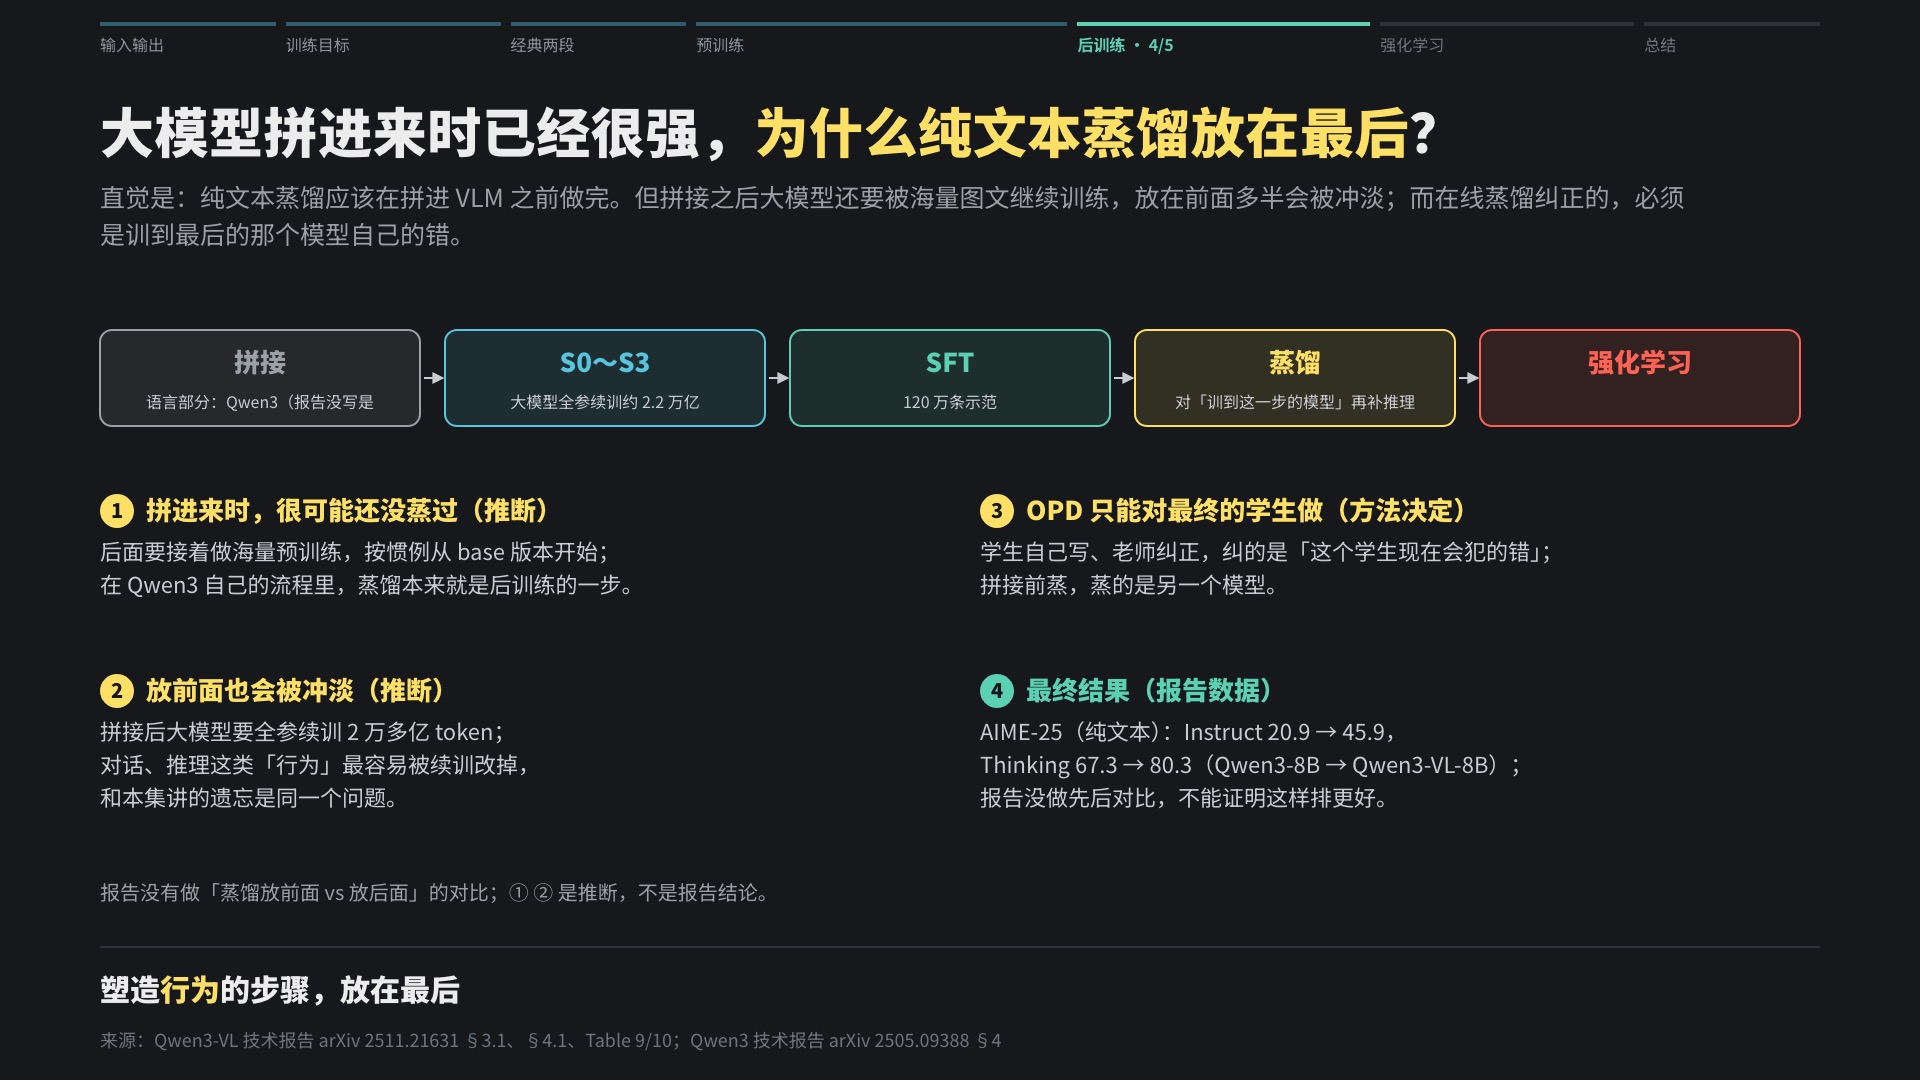
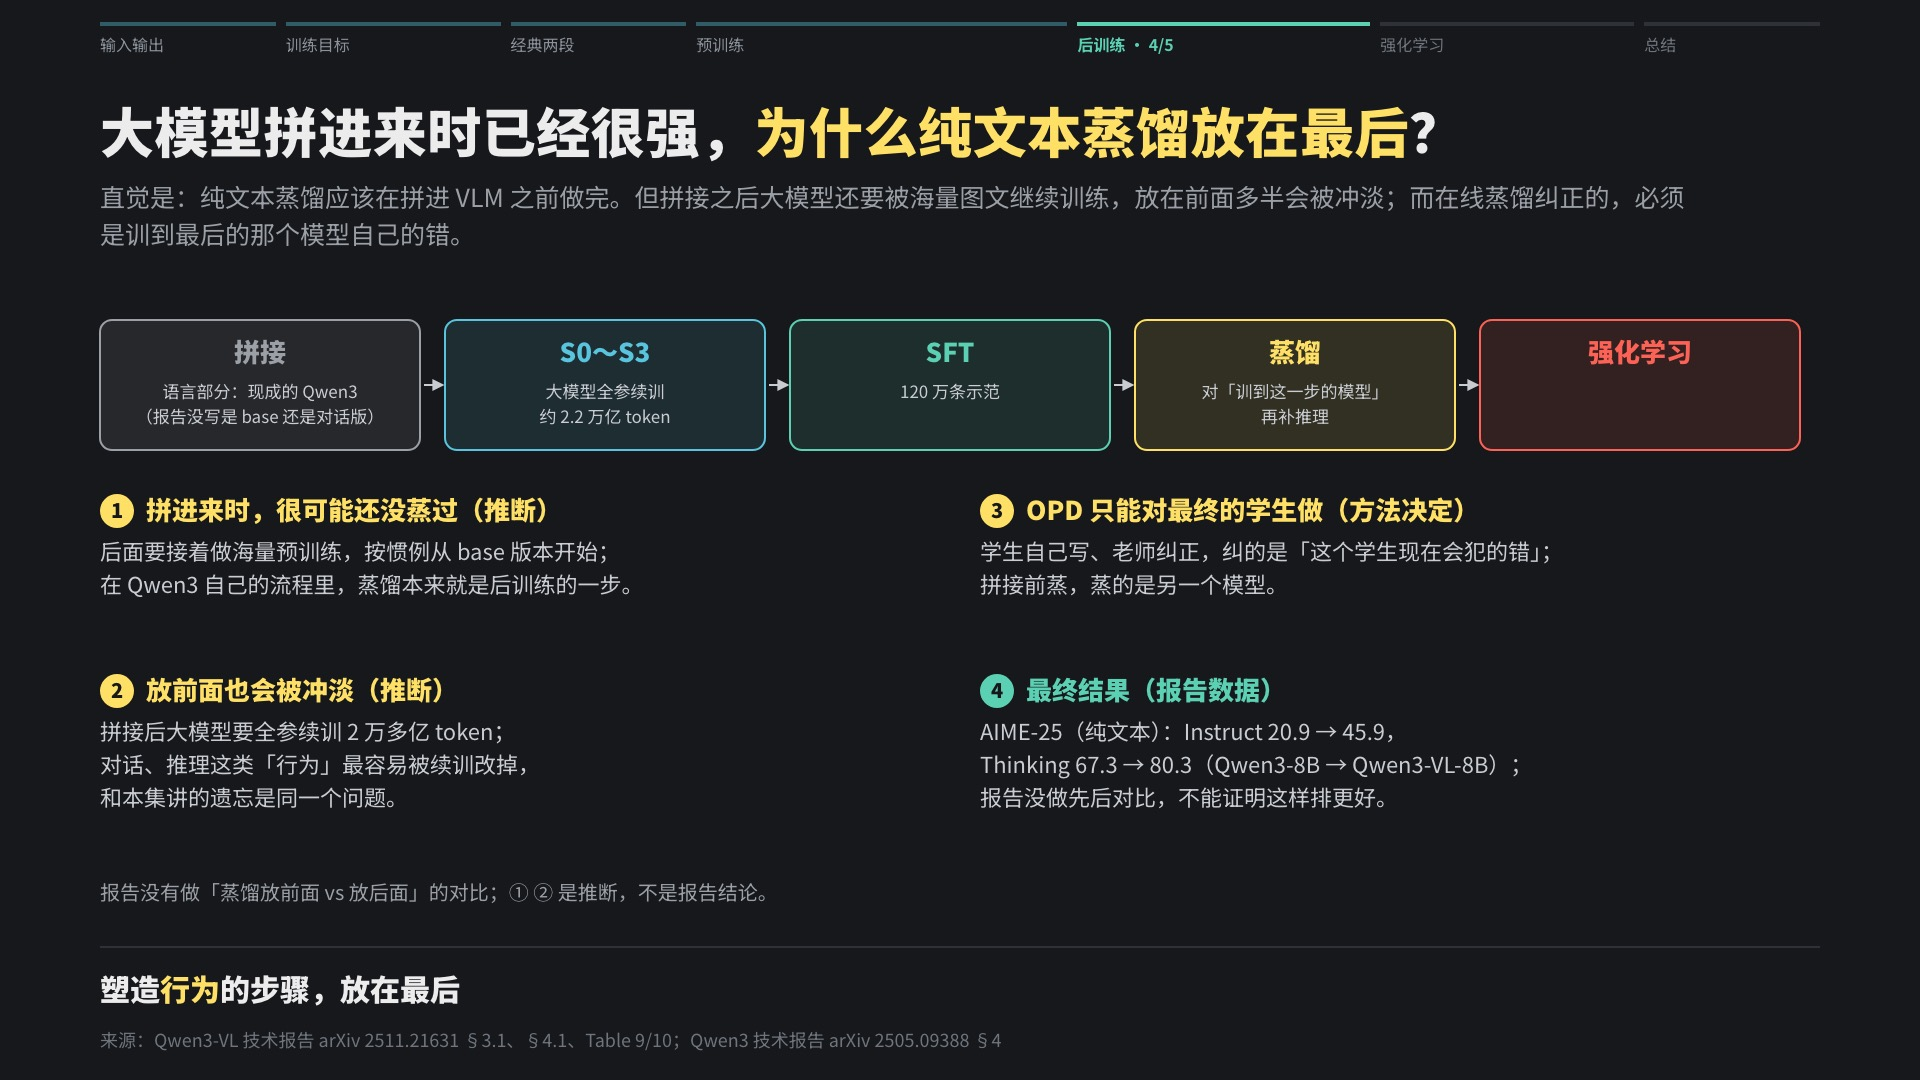
Fix truncated labels on EP04 slide f3b-last

Changed region(s): [[0.2188, 0.275, 0.9375, 0.4278], [0.0625, 0.3056, 0.2188, 0.3972]]

diff --git a/lecture/ep04/slides/f3b-last.html b/lecture/ep04/slides/f3b-last.html
@@ -22,4 +22,4 @@ body{padding-top:96px}.nav{position:absolute;left:100px;right:100px;top:22px;dis
 .nl{font-size:16px;color:#6E757C;white-space:nowrap}.nv.past .nl{color:#8A9199}.nv.cur .nl{color:var(--c);font-weight:700}
 .take{position:absolute;left:100px;right:100px;bottom:70px;font:900 30px "Noto Sans SC";border-top:2px solid #2E3238;padding-top:18px}.take i{font-style:normal;color:var(--yl)}
 .foot{bottom:28px}.n{font-size:22px;line-height:1.7}.n b{display:block;font-size:26px;margin-bottom:8px}
-.stp{font:700 22px "Noto Sans SC";color:var(--mu);margin-bottom:10px}.stp b{display:inline-flex;width:34px;height:34px;border-radius:50%;background:var(--card2);color:var(--fg);align-items:center;justify-content:center;margin-right:8px;font-size:20px}.fig{position:absolute;left:0;top:0;font-family:"Noto Sans SC",sans-serif}.fig .m{font-family:"JetBrains Mono",monospace;font-variant-ligatures:none}</style></head><body><div class="nav"><div class="nv past" style="flex:4.5;--c:var(--fg)"><div class="nl">输入输出</div></div><div class="nv past" style="flex:5.5;--c:var(--yl)"><div class="nl">训练目标</div></div><div class="nv past" style="flex:4.5;--c:var(--pu)"><div class="nl">经典两段</div></div><div class="nv past" style="flex:9.5;--c:var(--bl)"><div class="nl">预训练</div></div><div class="nv cur" style="flex:7.5;--c:var(--gr)"><div class="nl">后训练 · 4/5</div></div><div class="nv" style="flex:6.5;--c:var(--rd)"><div class="nl">强化学习</div></div><div class="nv" style="flex:4.5;--c:var(--fg)"><div class="nl">总结</div></div></div><h1>大模型拼进来时已经很强，<span class="yl">为什么纯文本蒸馏放在最后</span>？</h1><div class="sub">直觉是：纯文本蒸馏应该在拼进 VLM 之前做完。但拼接之后大模型还要被海量图文继续训练，放在前面多半会被冲淡；而在线蒸馏纠正的，必须是训到最后的那个模型自己的错。</div><svg class="fig" width="1920" height="1080" viewBox="0 0 1920 1080"><defs><marker id="abl" viewBox="0 0 10 10" refX="8" refY="5" markerWidth="6" markerHeight="6" orient="auto-start-reverse"><path d="M0,0L10,5L0,10z" fill="#58C4DD"/></marker><marker id="ayl" viewBox="0 0 10 10" refX="8" refY="5" markerWidth="6" markerHeight="6" orient="auto-start-reverse"><path d="M0,0L10,5L0,10z" fill="#FFE066"/></marker><marker id="agr" viewBox="0 0 10 10" refX="8" refY="5" markerWidth="6" markerHeight="6" orient="auto-start-reverse"><path d="M0,0L10,5L0,10z" fill="#5CD0B3"/></marker><marker id="ard" viewBox="0 0 10 10" refX="8" refY="5" markerWidth="6" markerHeight="6" orient="auto-start-reverse"><path d="M0,0L10,5L0,10z" fill="#FC6255"/></marker><marker id="apu" viewBox="0 0 10 10" refX="8" refY="5" markerWidth="6" markerHeight="6" orient="auto-start-reverse"><path d="M0,0L10,5L0,10z" fill="#B189F5"/></marker><marker id="amu" viewBox="0 0 10 10" refX="8" refY="5" markerWidth="6" markerHeight="6" orient="auto-start-reverse"><path d="M0,0L10,5L0,10z" fill="#9AA0A6"/></marker><marker id="afg" viewBox="0 0 10 10" refX="8" refY="5" markerWidth="6" markerHeight="6" orient="auto-start-reverse"><path d="M0,0L10,5L0,10z" fill="#ECECEC"/></marker><marker id="adk" viewBox="0 0 10 10" refX="8" refY="5" markerWidth="6" markerHeight="6" orient="auto-start-reverse"><path d="M0,0L10,5L0,10z" fill="#5F666E"/></marker><marker id="aln" viewBox="0 0 10 10" refX="8" refY="5" markerWidth="6" markerHeight="6" orient="auto-start-reverse"><path d="M0,0L10,5L0,10z" fill="#2E3238"/></marker><marker id="acard" viewBox="0 0 10 10" refX="8" refY="5" markerWidth="6" markerHeight="6" orient="auto-start-reverse"><path d="M0,0L10,5L0,10z" fill="#202328"/></marker><marker id="acard2" viewBox="0 0 10 10" refX="8" refY="5" markerWidth="6" markerHeight="6" orient="auto-start-reverse"><path d="M0,0L10,5L0,10z" fill="#272B31"/></marker><marker id="abg" viewBox="0 0 10 10" refX="8" refY="5" markerWidth="6" markerHeight="6" orient="auto-start-reverse"><path d="M0,0L10,5L0,10z" fill="#16181B"/></marker><marker id="asv" viewBox="0 0 10 10" refX="8" refY="5" markerWidth="6" markerHeight="6" orient="auto-start-reverse"><path d="M0,0L10,5L0,10z" fill="#C9CDD2"/></marker></defs><g transform="translate(0,0)"><rect x="100" y="330" width="320" height="96" rx="12" fill="#9AA0A61F" opacity="1" stroke="#9AA0A6" stroke-width="2"/><text x="260" y="372" fill="#9AA0A6" font-size="26" font-weight="900" text-anchor="middle" opacity="1"><tspan x="260" dy="0">拼接</tspan></text><text x="260" y="408" fill="#C9CDD2" font-size="16" font-weight="400" text-anchor="middle" opacity="1"><tspan x="260" dy="0">语言部分：Qwen3（报告没写是</tspan></text><line x1="424" y1="378" x2="442" y2="378" stroke="#C9CDD2" stroke-width="2" opacity="1" marker-end="url(#asv)"/><rect x="445" y="330" width="320" height="96" rx="12" fill="#58C4DD1F" opacity="1" stroke="#58C4DD" stroke-width="2"/><text x="605" y="372" fill="#58C4DD" font-size="26" font-weight="900" text-anchor="middle" opacity="1"><tspan x="605" dy="0">S0～S3</tspan></text><text x="605" y="408" fill="#C9CDD2" font-size="16" font-weight="400" text-anchor="middle" opacity="1"><tspan x="605" dy="0">大模型全参续训约 2.2 万亿 </tspan></text><line x1="769" y1="378" x2="787" y2="378" stroke="#C9CDD2" stroke-width="2" opacity="1" marker-end="url(#asv)"/><rect x="790" y="330" width="320" height="96" rx="12" fill="#5CD0B31F" opacity="1" stroke="#5CD0B3" stroke-width="2"/><text x="950" y="372" fill="#5CD0B3" font-size="26" font-weight="900" text-anchor="middle" opacity="1"><tspan x="950" dy="0">SFT</tspan></text><text x="950" y="408" fill="#C9CDD2" font-size="16" font-weight="400" text-anchor="middle" opacity="1"><tspan x="950" dy="0">120 万条示范</tspan></text><line x1="1114" y1="378" x2="1132" y2="378" stroke="#C9CDD2" stroke-width="2" opacity="1" marker-end="url(#asv)"/><rect x="1135" y="330" width="320" height="96" rx="12" fill="#FFE0661F" opacity="1" stroke="#FFE066" stroke-width="2"/><text x="1295" y="372" fill="#FFE066" font-size="26" font-weight="900" text-anchor="middle" opacity="1"><tspan x="1295" dy="0">蒸馏</tspan></text><text x="1295" y="408" fill="#C9CDD2" font-size="16" font-weight="400" text-anchor="middle" opacity="1"><tspan x="1295" dy="0">对「训到这一步的模型」再补推理</tspan></text><line x1="1459" y1="378" x2="1477" y2="378" stroke="#C9CDD2" stroke-width="2" opacity="1" marker-end="url(#asv)"/><rect x="1480" y="330" width="320" height="96" rx="12" fill="#FC62551F" opacity="1" stroke="#FC6255" stroke-width="2"/><text x="1640" y="372" fill="#FC6255" font-size="26" font-weight="900" text-anchor="middle" opacity="1"><tspan x="1640" dy="0">强化学习</tspan></text><text x="1640" y="408" fill="#C9CDD2" font-size="16" font-weight="400" text-anchor="middle" opacity="1"><tspan x="1640" dy="0"></tspan></text><circle cx="117" cy="511" r="17" fill="#FFE066"/><text x="117" y="518" fill="#16181B" font-size="20" font-weight="900" text-anchor="middle" opacity="1"><tspan x="117" dy="0">1</tspan></text><text x="146" y="520" fill="#FFE066" font-size="26" font-weight="900" text-anchor="start" opacity="1"><tspan x="146" dy="0">拼进来时，很可能还没蒸过（推断）</tspan></text><text x="100" y="560" fill="#C9CDD2" font-size="22" font-weight="400" text-anchor="start" opacity="1"><tspan x="100" dy="0">后面要接着做海量预训练，按惯例从 base 版本开始；</tspan><tspan x="100" dy="33">在 Qwen3 自己的流程里，蒸馏本来就是后训练的一步。</tspan></text><circle cx="117" cy="691" r="17" fill="#FFE066"/><text x="117" y="698" fill="#16181B" font-size="20" font-weight="900" text-anchor="middle" opacity="1"><tspan x="117" dy="0">2</tspan></text><text x="146" y="700" fill="#FFE066" font-size="26" font-weight="900" text-anchor="start" opacity="1"><tspan x="146" dy="0">放前面也会被冲淡（推断）</tspan></text><text x="100" y="740" fill="#C9CDD2" font-size="22" font-weight="400" text-anchor="start" opacity="1"><tspan x="100" dy="0">拼接后大模型要全参续训 2 万多亿 token；</tspan><tspan x="100" dy="33">对话、推理这类「行为」最容易被续训改掉，</tspan><tspan x="100" dy="33">和本集讲的遗忘是同一个问题。</tspan></text><circle cx="997" cy="511" r="17" fill="#FFE066"/><text x="997" y="518" fill="#16181B" font-size="20" font-weight="900" text-anchor="middle" opacity="1"><tspan x="997" dy="0">3</tspan></text><text x="1026" y="520" fill="#FFE066" font-size="26" font-weight="900" text-anchor="start" opacity="1"><tspan x="1026" dy="0">OPD 只能对最终的学生做（方法决定）</tspan></text><text x="980" y="560" fill="#C9CDD2" font-size="22" font-weight="400" text-anchor="start" opacity="1"><tspan x="980" dy="0">学生自己写、老师纠正，纠的是「这个学生现在会犯的错」；</tspan><tspan x="980" dy="33">拼接前蒸，蒸的是另一个模型。</tspan></text><circle cx="997" cy="691" r="17" fill="#5CD0B3"/><text x="997" y="698" fill="#16181B" font-size="20" font-weight="900" text-anchor="middle" opacity="1"><tspan x="997" dy="0">4</tspan></text><text x="1026" y="700" fill="#5CD0B3" font-size="26" font-weight="900" text-anchor="start" opacity="1"><tspan x="1026" dy="0">最终结果（报告数据）</tspan></text><text x="980" y="740" fill="#C9CDD2" font-size="22" font-weight="400" text-anchor="start" opacity="1"><tspan x="980" dy="0">AIME-25（纯文本）：Instruct 20.9 → 45.9，</tspan><tspan x="980" dy="33">Thinking 67.3 → 80.3（Qwen3-8B → Qwen3-VL-8B）；</tspan><tspan x="980" dy="33">报告没做先后对比，不能证明这样排更好。</tspan></text><text x="100" y="900" fill="#9AA0A6" font-size="20" font-weight="400" text-anchor="start" opacity="1"><tspan x="100" dy="0">报告没有做「蒸馏放前面 vs 放后面」的对比；① ② 是推断，不是报告结论。</tspan></text></g></svg><div class="take">塑造<i>行为</i>的步骤，放在最后</div><div class="foot">来源：Qwen3-VL 技术报告 arXiv 2511.21631 §3.1、§4.1、Table 9/10；Qwen3 技术报告 arXiv 2505.09388 §4</div></body></html>
+.stp{font:700 22px "Noto Sans SC";color:var(--mu);margin-bottom:10px}.stp b{display:inline-flex;width:34px;height:34px;border-radius:50%;background:var(--card2);color:var(--fg);align-items:center;justify-content:center;margin-right:8px;font-size:20px}.fig{position:absolute;left:0;top:0;font-family:"Noto Sans SC",sans-serif}.fig .m{font-family:"JetBrains Mono",monospace;font-variant-ligatures:none}</style></head><body><div class="nav"><div class="nv past" style="flex:4.5;--c:var(--fg)"><div class="nl">输入输出</div></div><div class="nv past" style="flex:5.5;--c:var(--yl)"><div class="nl">训练目标</div></div><div class="nv past" style="flex:4.5;--c:var(--pu)"><div class="nl">经典两段</div></div><div class="nv past" style="flex:9.5;--c:var(--bl)"><div class="nl">预训练</div></div><div class="nv cur" style="flex:7.5;--c:var(--gr)"><div class="nl">后训练 · 4/5</div></div><div class="nv" style="flex:6.5;--c:var(--rd)"><div class="nl">强化学习</div></div><div class="nv" style="flex:4.5;--c:var(--fg)"><div class="nl">总结</div></div></div><h1>大模型拼进来时已经很强，<span class="yl">为什么纯文本蒸馏放在最后</span>？</h1><div class="sub">直觉是：纯文本蒸馏应该在拼进 VLM 之前做完。但拼接之后大模型还要被海量图文继续训练，放在前面多半会被冲淡；而在线蒸馏纠正的，必须是训到最后的那个模型自己的错。</div><svg class="fig" width="1920" height="1080" viewBox="0 0 1920 1080"><defs><marker id="abl" viewBox="0 0 10 10" refX="8" refY="5" markerWidth="6" markerHeight="6" orient="auto-start-reverse"><path d="M0,0L10,5L0,10z" fill="#58C4DD"/></marker><marker id="ayl" viewBox="0 0 10 10" refX="8" refY="5" markerWidth="6" markerHeight="6" orient="auto-start-reverse"><path d="M0,0L10,5L0,10z" fill="#FFE066"/></marker><marker id="agr" viewBox="0 0 10 10" refX="8" refY="5" markerWidth="6" markerHeight="6" orient="auto-start-reverse"><path d="M0,0L10,5L0,10z" fill="#5CD0B3"/></marker><marker id="ard" viewBox="0 0 10 10" refX="8" refY="5" markerWidth="6" markerHeight="6" orient="auto-start-reverse"><path d="M0,0L10,5L0,10z" fill="#FC6255"/></marker><marker id="apu" viewBox="0 0 10 10" refX="8" refY="5" markerWidth="6" markerHeight="6" orient="auto-start-reverse"><path d="M0,0L10,5L0,10z" fill="#B189F5"/></marker><marker id="amu" viewBox="0 0 10 10" refX="8" refY="5" markerWidth="6" markerHeight="6" orient="auto-start-reverse"><path d="M0,0L10,5L0,10z" fill="#9AA0A6"/></marker><marker id="afg" viewBox="0 0 10 10" refX="8" refY="5" markerWidth="6" markerHeight="6" orient="auto-start-reverse"><path d="M0,0L10,5L0,10z" fill="#ECECEC"/></marker><marker id="adk" viewBox="0 0 10 10" refX="8" refY="5" markerWidth="6" markerHeight="6" orient="auto-start-reverse"><path d="M0,0L10,5L0,10z" fill="#5F666E"/></marker><marker id="aln" viewBox="0 0 10 10" refX="8" refY="5" markerWidth="6" markerHeight="6" orient="auto-start-reverse"><path d="M0,0L10,5L0,10z" fill="#2E3238"/></marker><marker id="acard" viewBox="0 0 10 10" refX="8" refY="5" markerWidth="6" markerHeight="6" orient="auto-start-reverse"><path d="M0,0L10,5L0,10z" fill="#202328"/></marker><marker id="acard2" viewBox="0 0 10 10" refX="8" refY="5" markerWidth="6" markerHeight="6" orient="auto-start-reverse"><path d="M0,0L10,5L0,10z" fill="#272B31"/></marker><marker id="abg" viewBox="0 0 10 10" refX="8" refY="5" markerWidth="6" markerHeight="6" orient="auto-start-reverse"><path d="M0,0L10,5L0,10z" fill="#16181B"/></marker><marker id="asv" viewBox="0 0 10 10" refX="8" refY="5" markerWidth="6" markerHeight="6" orient="auto-start-reverse"><path d="M0,0L10,5L0,10z" fill="#C9CDD2"/></marker></defs><g transform="translate(0,0)"><rect x="100" y="320" width="320" height="130" rx="12" fill="#9AA0A61F" opacity="1" stroke="#9AA0A6" stroke-width="2"/><text x="260" y="362" fill="#9AA0A6" font-size="26" font-weight="900" text-anchor="middle" opacity="1"><tspan x="260" dy="0">拼接</tspan></text><text x="260" y="398" fill="#C9CDD2" font-size="17" font-weight="400" text-anchor="middle" opacity="1"><tspan x="260" dy="0">语言部分：现成的 Qwen3</tspan><tspan x="260" dy="25">（报告没写是 base 还是对话版）</tspan></text><line x1="424" y1="385" x2="442" y2="385" stroke="#C9CDD2" stroke-width="2" opacity="1" marker-end="url(#asv)"/><rect x="445" y="320" width="320" height="130" rx="12" fill="#58C4DD1F" opacity="1" stroke="#58C4DD" stroke-width="2"/><text x="605" y="362" fill="#58C4DD" font-size="26" font-weight="900" text-anchor="middle" opacity="1"><tspan x="605" dy="0">S0～S3</tspan></text><text x="605" y="398" fill="#C9CDD2" font-size="17" font-weight="400" text-anchor="middle" opacity="1"><tspan x="605" dy="0">大模型全参续训</tspan><tspan x="605" dy="25">约 2.2 万亿 token</tspan></text><line x1="769" y1="385" x2="787" y2="385" stroke="#C9CDD2" stroke-width="2" opacity="1" marker-end="url(#asv)"/><rect x="790" y="320" width="320" height="130" rx="12" fill="#5CD0B31F" opacity="1" stroke="#5CD0B3" stroke-width="2"/><text x="950" y="362" fill="#5CD0B3" font-size="26" font-weight="900" text-anchor="middle" opacity="1"><tspan x="950" dy="0">SFT</tspan></text><text x="950" y="398" fill="#C9CDD2" font-size="17" font-weight="400" text-anchor="middle" opacity="1"><tspan x="950" dy="0">120 万条示范</tspan></text><line x1="1114" y1="385" x2="1132" y2="385" stroke="#C9CDD2" stroke-width="2" opacity="1" marker-end="url(#asv)"/><rect x="1135" y="320" width="320" height="130" rx="12" fill="#FFE0661F" opacity="1" stroke="#FFE066" stroke-width="2"/><text x="1295" y="362" fill="#FFE066" font-size="26" font-weight="900" text-anchor="middle" opacity="1"><tspan x="1295" dy="0">蒸馏</tspan></text><text x="1295" y="398" fill="#C9CDD2" font-size="17" font-weight="400" text-anchor="middle" opacity="1"><tspan x="1295" dy="0">对「训到这一步的模型」</tspan><tspan x="1295" dy="25">再补推理</tspan></text><line x1="1459" y1="385" x2="1477" y2="385" stroke="#C9CDD2" stroke-width="2" opacity="1" marker-end="url(#asv)"/><rect x="1480" y="320" width="320" height="130" rx="12" fill="#FC62551F" opacity="1" stroke="#FC6255" stroke-width="2"/><text x="1640" y="362" fill="#FC6255" font-size="26" font-weight="900" text-anchor="middle" opacity="1"><tspan x="1640" dy="0">强化学习</tspan></text><text x="1640" y="398" fill="#C9CDD2" font-size="17" font-weight="400" text-anchor="middle" opacity="1"><tspan x="1640" dy="0"></tspan></text><circle cx="117" cy="511" r="17" fill="#FFE066"/><text x="117" y="518" fill="#16181B" font-size="20" font-weight="900" text-anchor="middle" opacity="1"><tspan x="117" dy="0">1</tspan></text><text x="146" y="520" fill="#FFE066" font-size="26" font-weight="900" text-anchor="start" opacity="1"><tspan x="146" dy="0">拼进来时，很可能还没蒸过（推断）</tspan></text><text x="100" y="560" fill="#C9CDD2" font-size="22" font-weight="400" text-anchor="start" opacity="1"><tspan x="100" dy="0">后面要接着做海量预训练，按惯例从 base 版本开始；</tspan><tspan x="100" dy="33">在 Qwen3 自己的流程里，蒸馏本来就是后训练的一步。</tspan></text><circle cx="117" cy="691" r="17" fill="#FFE066"/><text x="117" y="698" fill="#16181B" font-size="20" font-weight="900" text-anchor="middle" opacity="1"><tspan x="117" dy="0">2</tspan></text><text x="146" y="700" fill="#FFE066" font-size="26" font-weight="900" text-anchor="start" opacity="1"><tspan x="146" dy="0">放前面也会被冲淡（推断）</tspan></text><text x="100" y="740" fill="#C9CDD2" font-size="22" font-weight="400" text-anchor="start" opacity="1"><tspan x="100" dy="0">拼接后大模型要全参续训 2 万多亿 token；</tspan><tspan x="100" dy="33">对话、推理这类「行为」最容易被续训改掉，</tspan><tspan x="100" dy="33">和本集讲的遗忘是同一个问题。</tspan></text><circle cx="997" cy="511" r="17" fill="#FFE066"/><text x="997" y="518" fill="#16181B" font-size="20" font-weight="900" text-anchor="middle" opacity="1"><tspan x="997" dy="0">3</tspan></text><text x="1026" y="520" fill="#FFE066" font-size="26" font-weight="900" text-anchor="start" opacity="1"><tspan x="1026" dy="0">OPD 只能对最终的学生做（方法决定）</tspan></text><text x="980" y="560" fill="#C9CDD2" font-size="22" font-weight="400" text-anchor="start" opacity="1"><tspan x="980" dy="0">学生自己写、老师纠正，纠的是「这个学生现在会犯的错」；</tspan><tspan x="980" dy="33">拼接前蒸，蒸的是另一个模型。</tspan></text><circle cx="997" cy="691" r="17" fill="#5CD0B3"/><text x="997" y="698" fill="#16181B" font-size="20" font-weight="900" text-anchor="middle" opacity="1"><tspan x="997" dy="0">4</tspan></text><text x="1026" y="700" fill="#5CD0B3" font-size="26" font-weight="900" text-anchor="start" opacity="1"><tspan x="1026" dy="0">最终结果（报告数据）</tspan></text><text x="980" y="740" fill="#C9CDD2" font-size="22" font-weight="400" text-anchor="start" opacity="1"><tspan x="980" dy="0">AIME-25（纯文本）：Instruct 20.9 → 45.9，</tspan><tspan x="980" dy="33">Thinking 67.3 → 80.3（Qwen3-8B → Qwen3-VL-8B）；</tspan><tspan x="980" dy="33">报告没做先后对比，不能证明这样排更好。</tspan></text><text x="100" y="900" fill="#9AA0A6" font-size="20" font-weight="400" text-anchor="start" opacity="1"><tspan x="100" dy="0">报告没有做「蒸馏放前面 vs 放后面」的对比；① ② 是推断，不是报告结论。</tspan></text></g></svg><div class="take">塑造<i>行为</i>的步骤，放在最后</div><div class="foot">来源：Qwen3-VL 技术报告 arXiv 2511.21631 §3.1、§4.1、Table 9/10；Qwen3 技术报告 arXiv 2505.09388 §4</div></body></html>
